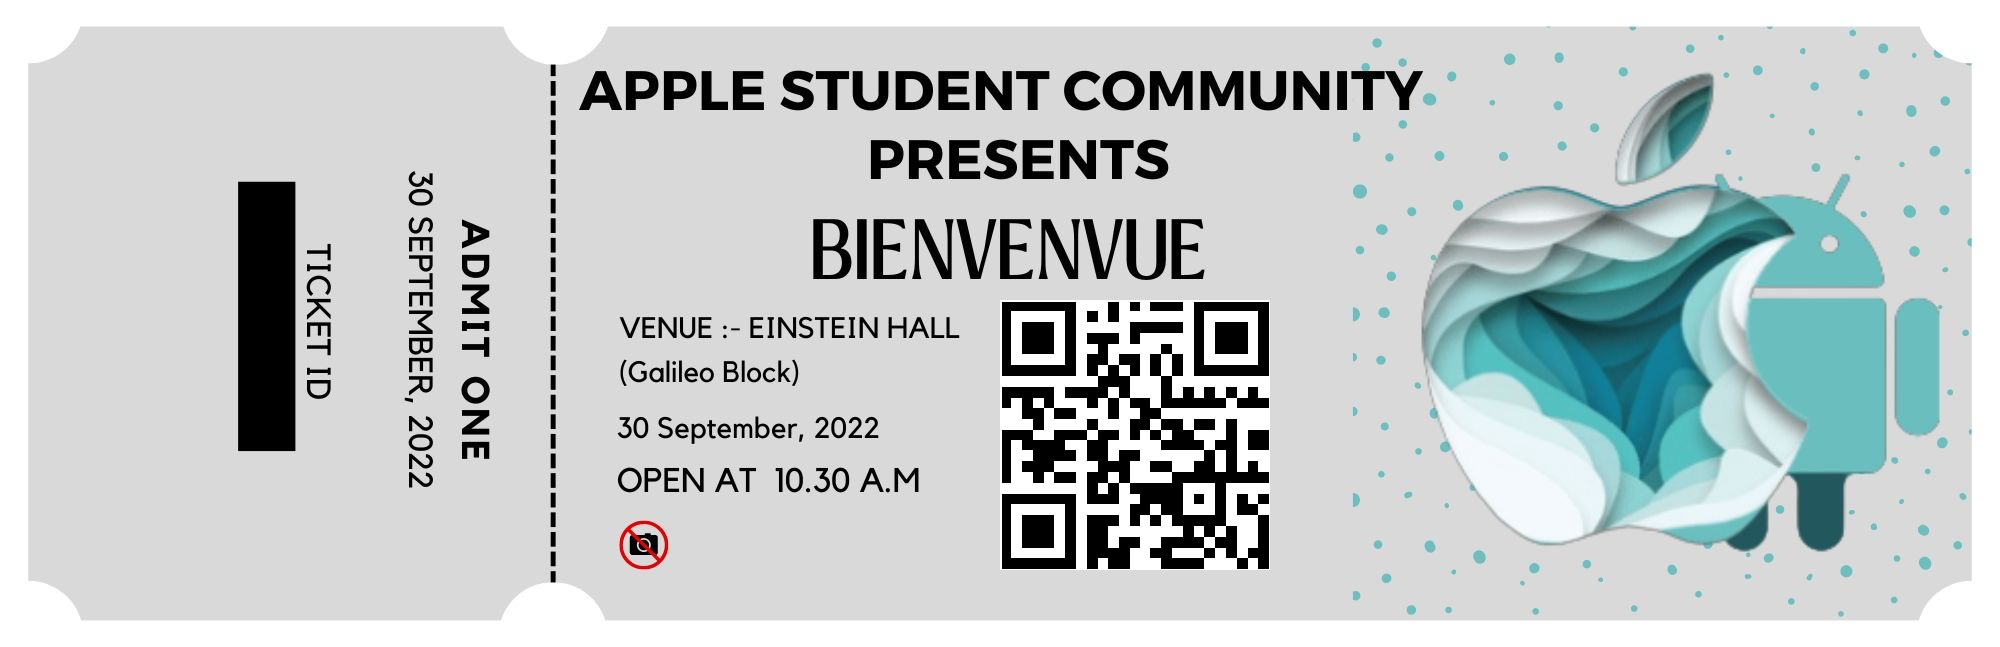
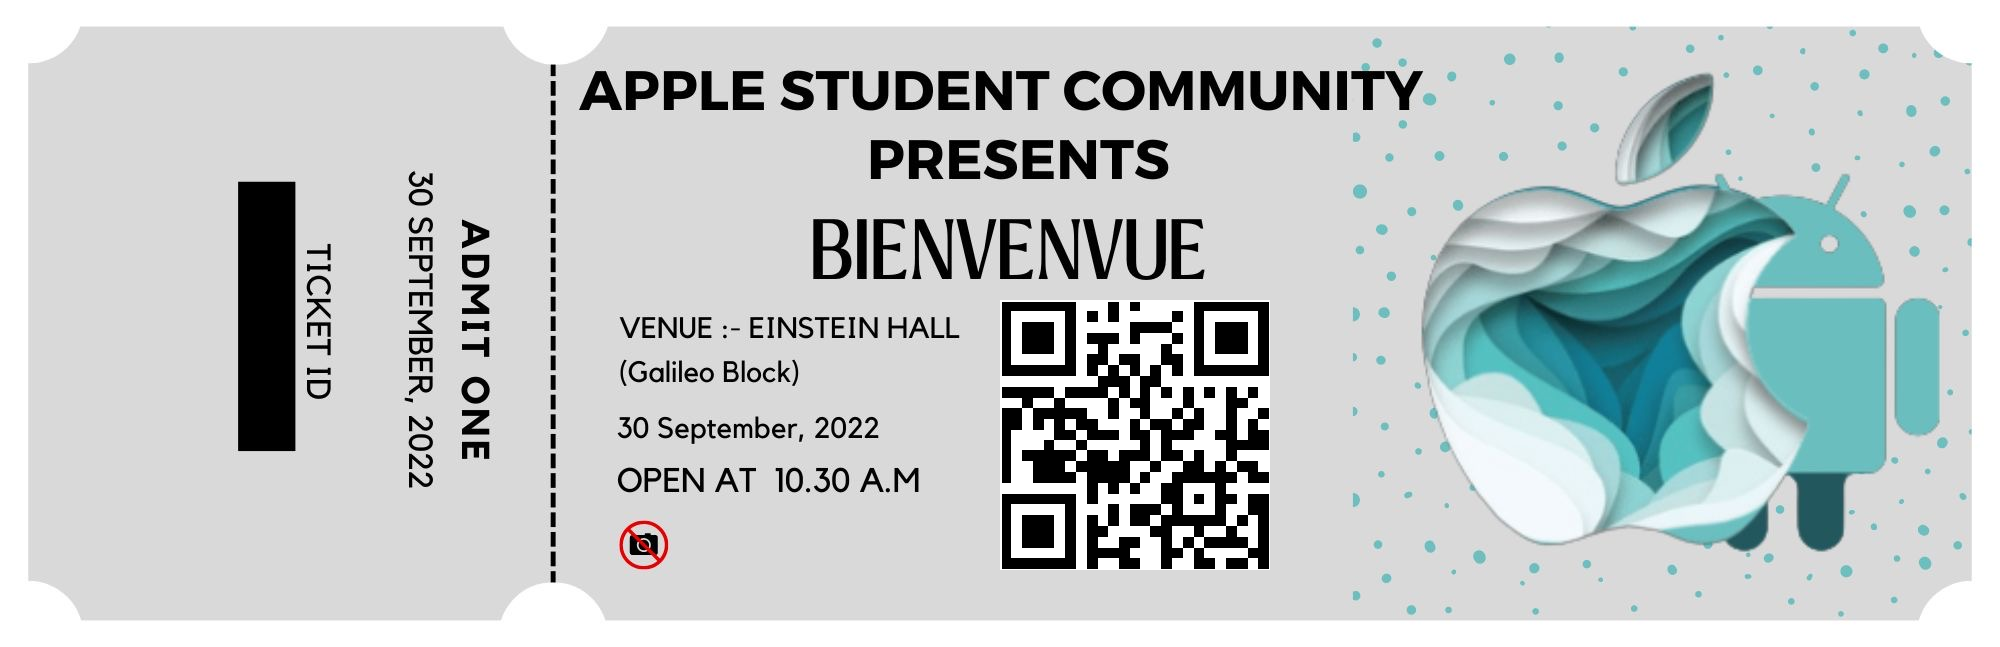
small bug

Changed region(s): [[0.496, 0.5255, 0.651, 0.8964], [0.558, 0.4637, 0.589, 0.4946]]

diff --git a/routes/GenerateTickets/index.js b/routes/GenerateTickets/index.js
@@ -1,9 +1,9 @@
 const router = require("express").Router();
 const User = require("../../models/users.schema");
 const registration = require("../../models/registration.schema");
-var images = require("images");
+// var images = require("images");
 var path = require("path");
-const download = require("image-downloader");
+// const download = require("image-downloader");
 
 // home route
 router.get("/:id", async (req, res) => {
@@ -14,7 +14,7 @@ router.get("/:id", async (req, res) => {
       res.status(200).render("status", {
         spam: "Welcome to the event",
         description: "Show qr to enter in event",
-        custom: `<img style="width:70%" src='/GenerateTickets/${req.params.id}/Image'/>`,
+        custom: `<center><img style="width:85%" src='/GenerateTickets/${req.params.id}/Image'/></center>`,
       });
     } else {
       res.status(200).render("status", {
@@ -67,13 +67,13 @@ router.get("/:id/Image", async (req, res) => {
   if (data) {
     let userdata = await User.findById(data.user).exec();
     if (userdata.rollNo) {
-      await download.image({
-        url: `https://api.qrserver.com/v1/create-qr-code/?size=200x200&data=${req.params.id}`,
-        dest: path.join(__dirname, "./qr.png"), // will be saved to /path/to/dest/image.jpg
-      });
-      images(path.join(__dirname, "./ticket.png")) //Load image from file
-        .draw(images(path.join(__dirname, "./qr.png")).size(270), 1000, 300) //Drawn logo at coordinates (10,10)
-        .save(path.join(__dirname, "./output.png")); //Save the image to a file
+      // await download.image({
+      //   url: `https://api.qrserver.com/v1/create-qr-code/?size=200x200&data=${req.params.id}`,
+      //   dest: path.join(__dirname, "./qr.png"), // will be saved to /path/to/dest/image.jpg
+      // });
+      // images(path.join(__dirname, "./ticket.png")) //Load image from file
+      //   .draw(images(path.join(__dirname, "./qr.png")).size(270), 1000, 300) //Drawn logo at coordinates (10,10)
+      //   .save(path.join(__dirname, "./output.png")); //Save the image to a file
       res.sendFile(path.join(__dirname, "./output.png"));
       // fs.unlink(path.join(__dirname, "./output.png"));
       // fs.unlink(path.join(__dirname, "./or.png"));
